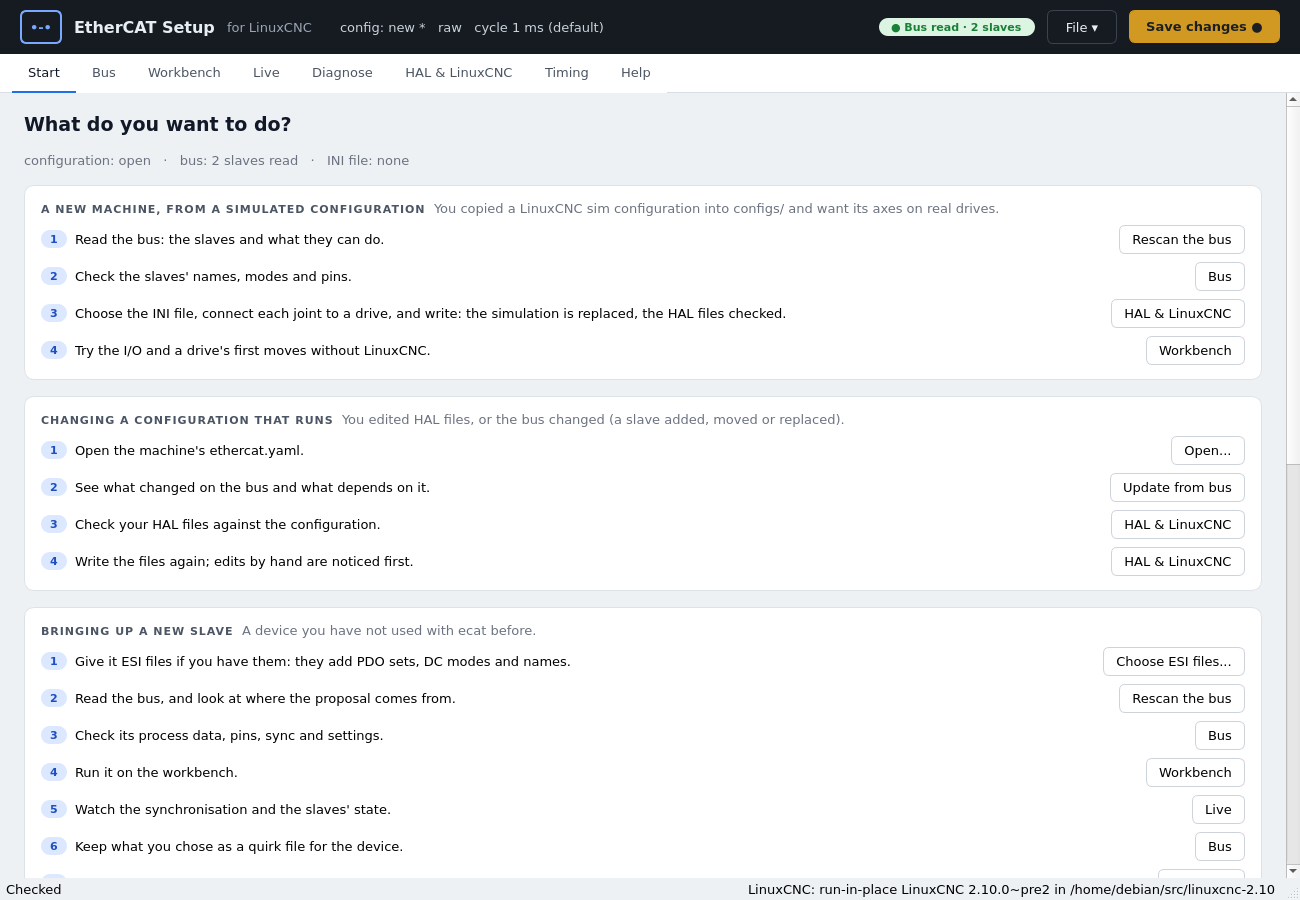
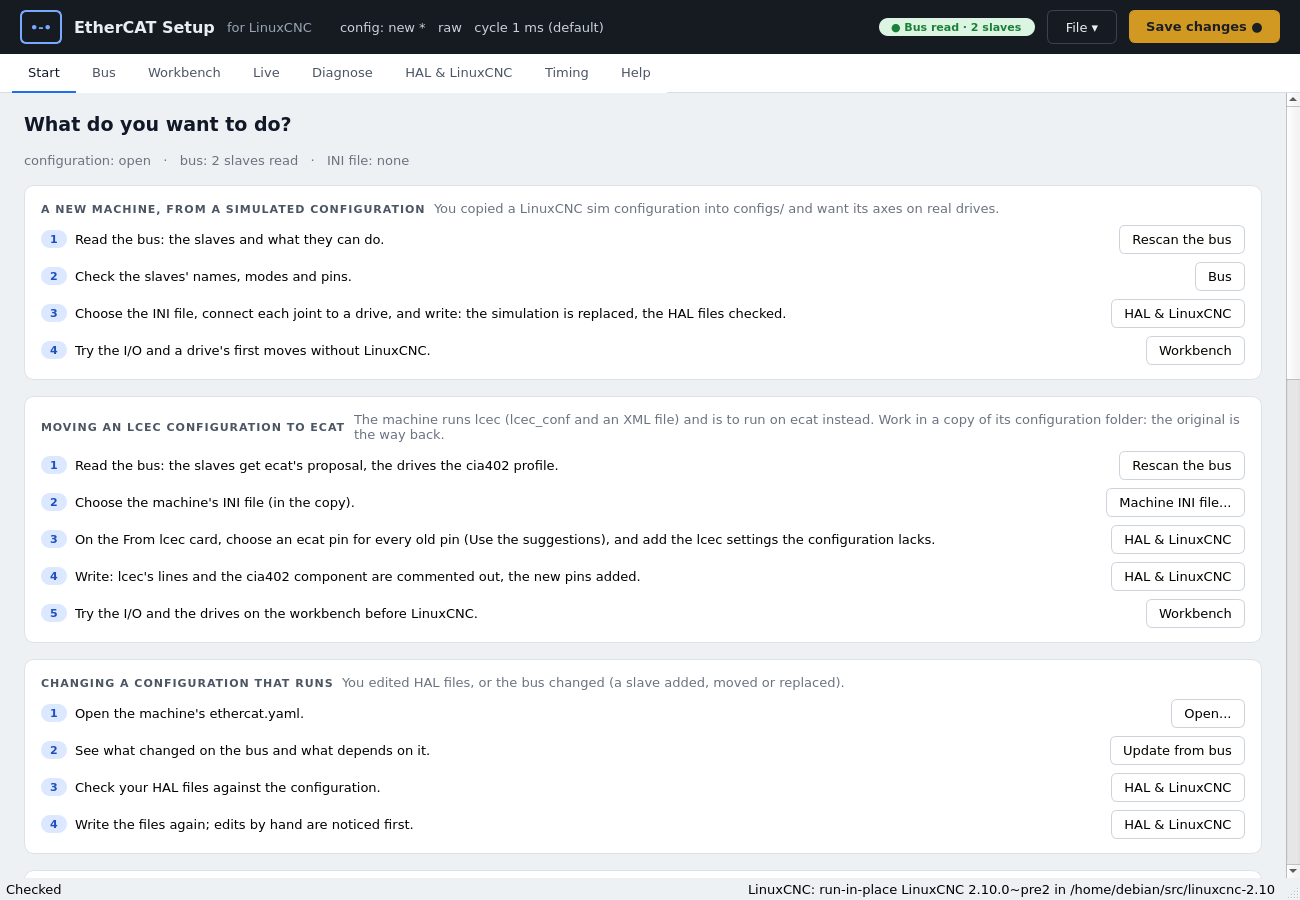
Start page: lcec move and drive homing tasks, the Diagnose dot
Two new tasks: moving an lcec configuration to ecat (bus, INI file, From
lcec card, write, workbench) and homing by the drive (method on the homing
card, switches and Home (hold) on the workbench, INI/HAL lines, HOME_OFFSET
with a button to the guide on the Help tab: target help:<topic>, TOPICS
guide:homing). The troubleshooting task is named as the Diagnose guide card
and starts with the dot. docs: the task list (timing was missing), new
screenshot.

diff --git a/ecatsetup/tasks.py b/ecatsetup/tasks.py
@@ -1,6 +1,7 @@
 """The start page's tasks: what people come to EtherCAT Setup to do, with
 the steps in order and where each is done. A step's target is a key the
-window maps to a page or an action (gui.MainWindow.go)."""
+window maps to a page or an action (gui.MainWindow.go), or "help:<topic>"
+for the Help tab at a helpdocs.TOPICS key."""
 
 # (title, when, [(step, target or None, button text)])
 TASKS = [
@@ -11,6 +12,17 @@ TASKS = [
       ("Choose the INI file, connect each joint to a drive, and write: the simulation is "
        "replaced, the HAL files checked.", "hal", "HAL && LinuxCNC"),
       ("Try the I/O and a drive's first moves without LinuxCNC.", "test", "Workbench")]),
+    ("Moving an lcec configuration to ecat",
+     "The machine runs lcec (lcec_conf and an XML file) and is to run on ecat instead. Work in a "
+     "copy of its configuration folder: the original is the way back.",
+     [("Read the bus: the slaves get ecat's proposal, the drives the cia402 profile.", "scan",
+       "Rescan the bus"),
+      ("Choose the machine's INI file (in the copy).", "ini", "Machine INI file..."),
+      ("On the From lcec card, choose an ecat pin for every old pin (Use the suggestions), and "
+       "add the lcec settings the configuration lacks.", "hal", "HAL && LinuxCNC"),
+      ("Write: lcec's lines and the cia402 component are commented out, the new pins added.",
+       "hal", "HAL && LinuxCNC"),
+      ("Try the I/O and the drives on the workbench before LinuxCNC.", "test", "Workbench")]),
     ("Changing a configuration that runs",
      "You edited HAL files, or the bus changed (a slave added, moved or replaced).",
      [("Open the machine's ethercat.yaml.", "open", "Open..."),
@@ -33,6 +45,17 @@ TASKS = [
      [("Read the bus.", "scan", "Rescan the bus"),
       ("Start the workbench, pick the slave, set outputs or move a drive in small steps.", "test",
        "Workbench")]),
+    ("Homing by the drive",
+     "A joint that LinuxCNC homes with its own search and latch is to use the drive's homing "
+     "method instead. Work in a copy of the configuration folder.",
+     [("On the drive's page, tick homing by the drive's own method, choose the method and the "
+       "speeds on the homing card, and save.", "bus", "Bus"),
+      ("Start the workbench: check the switches on the Switches card, then hold Home (hold) on "
+       "the Move card, with the emergency stop within reach.", "test", "Workbench"),
+      ("Write into LinuxCNC; put the homing card's INI lines into the joint's section and its "
+       "HAL lines (the guard) into your own HAL file.", "hal", "HAL && LinuxCNC"),
+      ("Home in LinuxCNC and measure HOME_OFFSET: the guide's step 7.", "help:guide:homing",
+       "The guide")]),
     ("Tuning a servo drive",
      "A CSP drive lags or overshoots, or you want FERROR right: measure what its following "
      "error is made of and change one thing at a time, with no LinuxCNC.",
@@ -56,9 +79,11 @@ TASKS = [
       ("Read the findings; in Improve mode try one run-time change, measure again, keep or undo "
        "it. Kernel parameters and the BIOS are for you to do.", "timing", "Timing"),
       ("Save the report: what you saw, did and got.", "timing", "Timing")]),
-    ("Troubleshooting while LinuxCNC runs",
+    ("When something goes wrong in a running machine",
      "Something unexpected happens and a slave may be the cause.",
-     [("Watch the pins live without touching anything.", "watch", "Watch LinuxCNC"),
+     [("A red or amber dot on the Diagnose tab: open it; what is new is in bold in the event "
+       "log, and its tooltip names the first.", "status", "Diagnose"),
+      ("Watch the pins live without touching anything.", "watch", "Watch LinuxCNC"),
       ("Read the slaves' states and error counters, the event log and the symptom guide.",
        "status", "Diagnose"),
       ("Save a report to attach when asking for help.", "status", "Diagnose")]),

diff --git a/tests/test_gui.py b/tests/test_gui.py
@@ -342,7 +342,17 @@ class TestWindow(WindowBase):
         pages = {"bus": w.bus_page, "status": w.trouble_page, "test": w.test_page,
                  "live": w.live_page, "hal": w.hal_page, "timing": w.timing_page}
         known = set(pages) | {"scan", "open", "update", "esi", "watch", "ini"}
-        self.assertEqual({t for _, _, steps in tasks.TASKS for _, t, _ in steps} - known, set())
+        targets = {t for _, _, steps in tasks.TASKS for _, t, _ in steps}
+        helps = {t for t in targets if t.startswith("help:")}
+        self.assertEqual(targets - known - helps, set())
+        # a guide's step opens the Help tab at a topic that exists
+        from ecatsetup import helpdocs
+        self.assertTrue(helps)
+        for t in helps:
+            self.assertIn(t[len("help:"):], helpdocs.TOPICS)
+        with mock.patch.object(w, "show_help") as show:
+            w.go("help:guide:homing")
+            show.assert_called_once_with("guide:homing")
         self.assertEqual(len(w.start_page.buttons), sum(len(x[2]) for x in tasks.TASKS))
         self.assertIs(w.tabs.currentWidget(), w.bus_page)       # a configuration is open
         for target, page in pages.items():

diff --git a/ecatsetup/helpdocs.py b/ecatsetup/helpdocs.py
@@ -189,6 +189,8 @@ TOPICS = {
     "Synchronisation": ("ecatsetup.md", "synchronisation-on-the-live-tab"),
     # how it works; it points to the step-by-step guide early on
     "Homing by the drive": ("ecatsetup.md", "homing-by-the-drive"),
+    # the start page's task "Homing by the drive" (tasks.py)
+    "guide:homing": ("ecatsetup.md", "from-linuxcncs-homing-to-the-drives"),
     "Network (EoE)": ("ecatsetup.md", "a-devices-web-page-over-eoe"),
     "Serial ports": ("ecatsetup.md", "a-modbus-vfd-on-a-serial-terminal-el6021"),
     "Written at start by the device's description (InitCmds)": ("ecatsetup.md", "bus"),

diff --git a/ecatsetup/gui.py b/ecatsetup/gui.py
@@ -8705,6 +8705,8 @@ class MainWindow(QMainWindow):
                    "esi": self.add_esi, "watch": self.start_watch, "ini": self.choose_ini}
         if target in pages:
             self.show_tab(pages[target])
+        elif target.startswith("help:"):
+            self.show_help(target[len("help:"):])
         elif target in actions and not self.busy:
             actions[target]()
 

diff --git a/docs/ecatsetup.md b/docs/ecatsetup.md
@@ -100,11 +100,16 @@ The line at the top tells what is open: configuration, bus, INI file. The
 tasks:
 
 - a new machine, from a simulated configuration;
+- moving an lcec configuration to ecat ([From an lcec configuration](#from-an-lcec-configuration));
 - changing a configuration that runs;
 - bringing up a new slave;
 - using a slave by hand;
+- homing by the drive ([the guide](#from-linuxcncs-homing-to-the-drives); its
+  last step's button *The guide* opens it on the Help tab);
 - tuning a servo drive ([step by step](#tuning-a-servo-drive-step-by-step));
-- troubleshooting while LinuxCNC runs.
+- checking the computer's timing ([Timing](#timing));
+- when something goes wrong in a running machine (the dot on *Diagnose*,
+  watching LinuxCNC, the report).
 
 ### Bus
 
